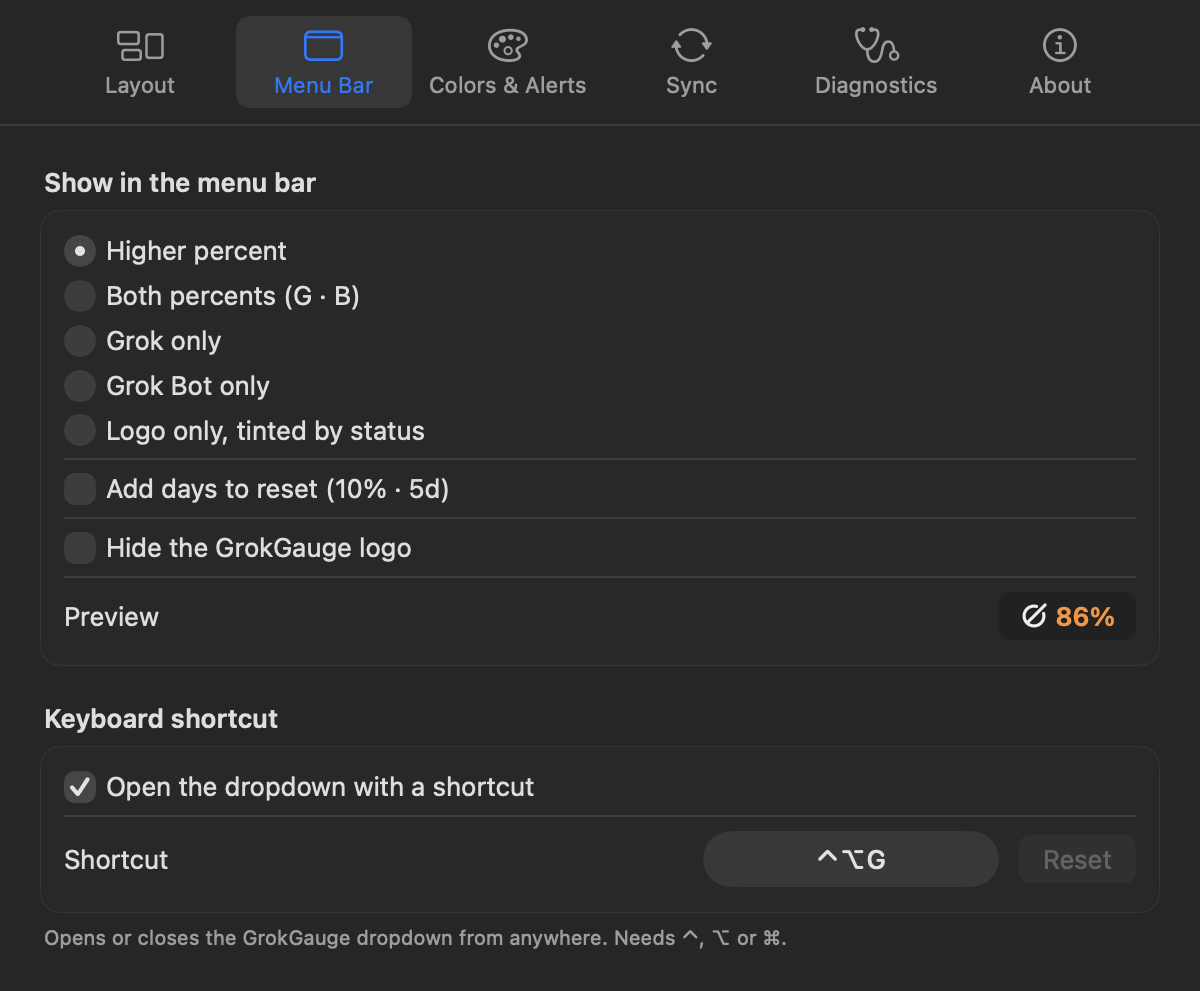
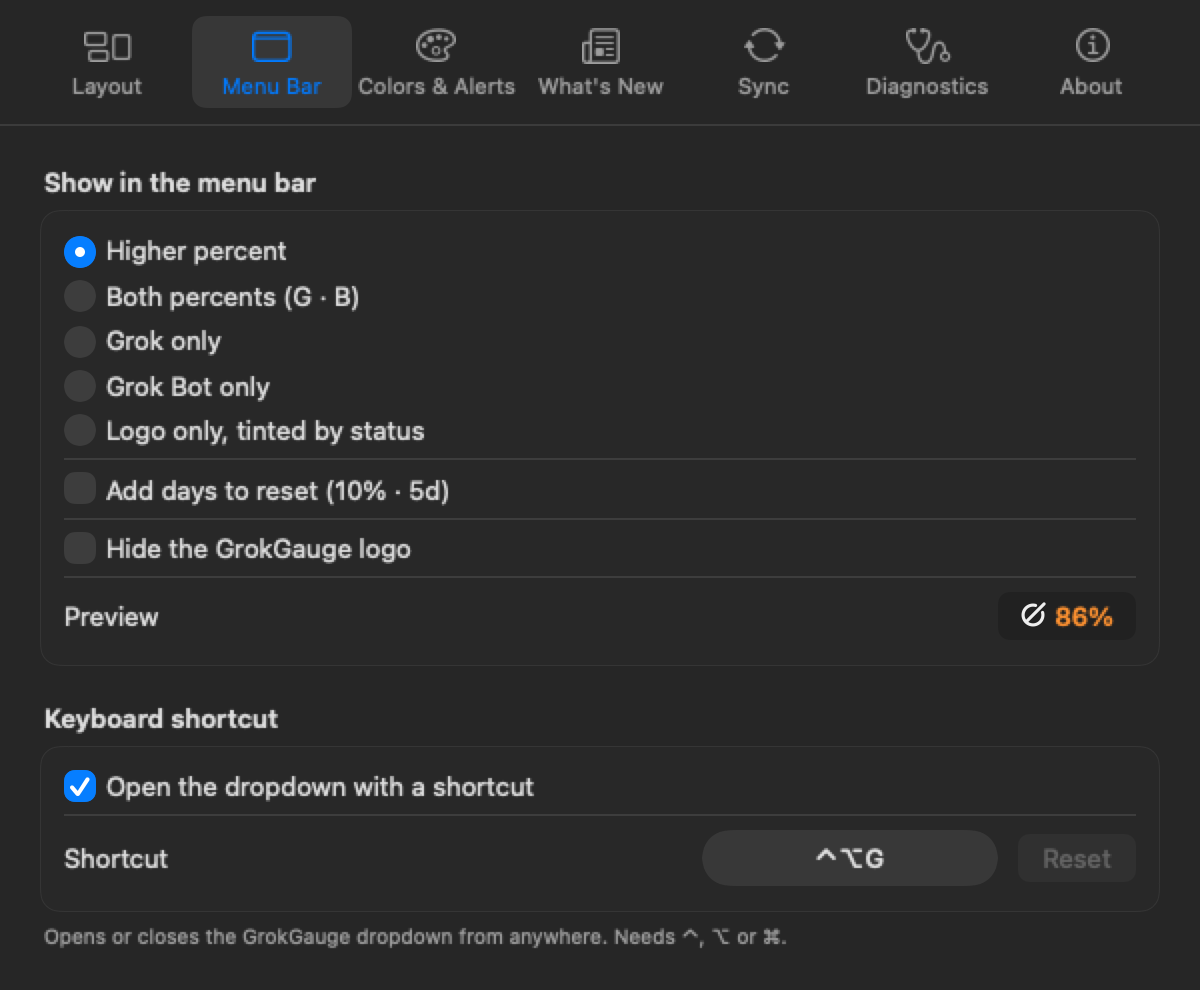
README and site: welcome tour and one-folder Sync tab (coming in the next update); previews render active colors at 2x

diff --git a/site/index.html b/site/index.html
@@ -28,6 +28,7 @@
   <div class="wrap nav-inner">
     <a class="brand" href="#top"><img src="assets/icon-256.png" alt="" width="32" height="32"><span>GrokGauge</span></a>
     <nav class="nav-links" aria-label="Sections">
+      <a href="#welcome">Welcome tour</a>
       <a href="#features">Features</a>
       <a href="#rings">Rings</a>
       <a href="#how">How it works</a>
@@ -84,6 +85,56 @@
   </div>
 </section>
 
+<!-- WELCOME TOUR -->
+<section id="welcome" class="section alt">
+  <div class="wrap">
+    <header class="sec-head">
+      <p class="kicker">Welcome tour</p>
+      <h2>Get started in seconds.</h2>
+      <p><span class="soon">Coming in the next update</span></p>
+      <p>The first time GrokGauge opens, a friendly 8-step tour shows you around. It checks your Grok sign-in, explains the rings with <em>your</em> color levels, the menu bar, settings and sync, and pace. Skip it anytime, or replay it later from the gear menu's <strong>Show Welcome Tour…</strong></p>
+    </header>
+
+    <div class="grid tour-grid">
+      <figure class="card fig">
+        <div class="shot shot-tour"><picture>
+          <source srcset="assets/tour-welcome-light.png" media="(prefers-color-scheme: light)">
+          <img src="assets/tour-welcome-dark.png" width="500" height="440" loading="lazy" alt="Welcome to GrokGauge: what it is, plus the note that it is unofficial and not affiliated with xAI">
+        </picture></div>
+        <figcaption><strong>1 · Welcome</strong> · what it is, unofficial</figcaption>
+      </figure>
+      <figure class="card fig">
+        <div class="shot shot-tour"><picture>
+          <source srcset="assets/tour-connect-light.png" media="(prefers-color-scheme: light)">
+          <img src="assets/tour-connect-dark.png" width="500" height="440" loading="lazy" alt="Connect to Grok: green checks for the Grok CLI sign-in and Grok Bot">
+        </picture></div>
+        <figcaption><strong>2 · Connect</strong> · checks your Grok sign-in</figcaption>
+      </figure>
+      <figure class="card fig">
+        <div class="shot shot-tour"><picture>
+          <source srcset="assets/tour-rings-light.png" media="(prefers-color-scheme: light)">
+          <img src="assets/tour-rings-dark.png" width="500" height="440" loading="lazy" alt="The rings: what Grok, Grok Bot and Cursor mean, with your own color levels and reset time">
+        </picture></div>
+        <figcaption><strong>3 · The rings</strong> · your colors and levels</figcaption>
+      </figure>
+      <figure class="card fig">
+        <div class="shot shot-tour"><picture>
+          <source srcset="assets/tour-tip-light.png" media="(prefers-color-scheme: light)">
+          <img src="assets/tour-tip-dark.png" width="500" height="440" loading="lazy" alt="Enjoying GrokGauge? An optional Tip on PayPal button and a Maybe later button">
+        </picture></div>
+        <figcaption><strong>8 · Thanks</strong> · an optional tip, never a nag</figcaption>
+      </figure>
+    </div>
+
+    <div class="grid feat-mini tour-mini">
+      <div class="mini"><span class="mi">↩</span><div><h4>Quick to click through</h4><p>Back, Next and Skip on every card, with step dots. <kbd>Return</kbd> goes on, <kbd>Esc</kbd> skips.</p></div></div>
+      <div class="mini"><span class="mi">◐</span><div><h4>Light, dark &amp; VoiceOver</h4><p>Follows your Mac's appearance, and every card reads well with VoiceOver.</p></div></div>
+      <div class="mini"><span class="mi">①</span><div><h4>Once per Mac, no nagging</h4><p>It shows once on each Mac. The last card offers an optional tip, and “Maybe later” means it never asks again.</p></div></div>
+    </div>
+    <p class="fine center">Shown with sample data. Steps 4–7 cover the shared pool, the menu bar, settings &amp; sync, and history &amp; pace.</p>
+  </div>
+</section>
+
 <!-- FEATURES -->
 <section id="features" class="section">
   <div class="wrap">
@@ -137,12 +188,32 @@
     </div>
 
     <div class="grid feat-mini">
-      <div class="mini"><span class="mi">⇄</span><div><h4>History synced across Macs</h4><p>Point GrokGauge at a folder your Macs already sync and every Mac's graph includes the others' readings.</p></div></div>
+      <div class="mini"><span class="mi">⇄</span><div><h4>Synced across Macs</h4><p>Point GrokGauge at a folder your Macs already sync. Your settings and every Mac's readings follow you.</p></div></div>
       <div class="mini"><span class="mi">🔔</span><div><h4>Heads-up alerts</h4><p>A notification when a ring reaches your warning or critical level, once per week each.</p></div></div>
       <div class="mini"><span class="mi">⌨</span><div><h4>Global shortcut</h4><p>Press <kbd>⌃⌥G</kbd> from anywhere to open the dropdown.</p></div></div>
       <div class="mini"><span class="mi">⏻</span><div><h4>Launch at login</h4><p>Set it once and it's there every time your Mac starts.</p></div></div>
       <div class="mini"><span class="mi">›_</span><div><h4>Guided Grok CLI setup</h4><p>No Grok CLI yet? GrokGauge walks you through installing it and running <code>grok login</code>.</p></div></div>
       <div class="mini"><span class="mi">⚙</span><div><h4>Make it yours</h4><p>Reorder or hide sections, pick ring and graph styles, and set your own color levels.</p></div></div>
+    </div>
+
+    <div class="card sync-spot">
+      <div class="sync-copy">
+        <p class="kicker">Sync between Macs</p>
+        <h3>One folder. One status. Done.</h3>
+        <p><span class="soon">Coming in the next update</span></p>
+        <p>Pick one folder your Macs already sync, like Google Drive, iCloud Drive or Dropbox. Your settings and 7-day usage history sync through it, and each has its own switch. One status line tells you it's in sync and which Macs are in, with a single <strong>Sync Now</strong>.</p>
+        <ul class="checks">
+          <li>All your Macs end up in the same folder. GrokGauge finds the one your other Macs use.</li>
+          <li>Readings from every Mac are combined (highest wins), never added.</li>
+          <li>Your Grok login is never synced.</li>
+        </ul>
+      </div>
+      <div class="shot shot-sync">
+        <picture>
+          <source srcset="assets/prefs-sync-light.png" media="(prefers-color-scheme: light)">
+          <img src="assets/prefs-sync-dark.png" width="600" height="512" loading="lazy" alt="The Sync tab: one folder, a status line reading In sync, 3 Macs, synced, one Sync Now button, and switches for Settings and 7-day usage history">
+        </picture>
+      </div>
     </div>
   </div>
 </section>
@@ -285,7 +356,7 @@
     </details>
     <details>
       <summary>I use several Macs. Does it keep up?</summary>
-      <p>Yes. Choose a folder your Macs already sync (Google Drive, Dropbox, iCloud Drive and so on) and GrokGauge syncs your settings and usage history through it. Run <code>grok login</code> on each Mac, because logins are never synced.</p>
+      <p>Yes. Choose a folder your Macs already sync (Google Drive, Dropbox, iCloud Drive and so on) and GrokGauge syncs your settings and usage history through it. Run <code>grok login</code> on each Mac, because logins are never synced. In the next update the Sync tab gets simpler: one folder, one status line and a switch each for settings and history.</p>
     </details>
   </div>
 </section>
@@ -294,7 +365,7 @@
 <section id="support" class="section alt">
   <div class="wrap">
     <div class="support card">
-      <img class="logo" src="assets/retrocombs-logo-160.png" width="96" height="96" alt="retroCombs logo">
+      <img class="logo" src="assets/retrocombs-logo-160.png" srcset="assets/retrocombs-logo-160.png 1x, assets/retrocombs-logo-512.png 3x" width="96" height="96" alt="retroCombs logo">
       <div class="support-copy">
         <h2>Free, and built in the open.</h2>
         <p>GrokGauge was made by Steven “retroCombs” Combs together with Grok Bot. If it saves you a surprise at the weekly limit, you can say thanks with a tip.</p>

diff --git a/Sources/GrokGauge/PreviewRenderer.swift b/Sources/GrokGauge/PreviewRenderer.swift
@@ -130,8 +130,7 @@ enum PreviewRenderer {
             prefsSettings = SettingsStore.preview()
         }
         let updates = demo
-            ? UpdateMonitor.preview(available: ReleaseInfo(tag: "v0.9.2", url: URL(string: "https://github.com/stevencombs/GrokGauge/releases/tag/v0.9.2")!),
-                                    lastChecked: Date().addingTimeInterval(-3 * 3600))
+            ? UpdateMonitor.preview(available: nil, lastChecked: Date().addingTimeInterval(-3 * 3600))
             : UpdateMonitor.preview(available: nil, lastChecked: Date())
         let expiry = demo ? Date().addingTimeInterval(5.5 * 3600) : store.grokTokenExpiry()
         // History sync as it looks with three Macs (one Insync conflict copy merged, one partial file skipped).
@@ -259,16 +258,19 @@ enum PreviewRenderer {
         let root = view
             .background(background ? (scheme == .dark ? Color(white: 0.15) : Color(white: 0.965)) : .clear)
             .environment(\.colorScheme, scheme)
+            // Draw controls as in the frontmost window (accent-colored default buttons and switches), not greyed out.
+            .environment(\.controlActiveState, .key)
         let host = NSHostingView(rootView: root)
         host.appearance = NSAppearance(named: scheme == .dark ? .darkAqua : .aqua)
         host.setFrameSize(host.fittingSize)
 
         // A real (but off-screen) window so AppKit-backed controls draw normally.
-        let window = NSWindow(contentRect: NSRect(origin: NSPoint(x: -10_000, y: -10_000), size: host.fittingSize),
-                              styleMask: [.borderless], backing: .buffered, defer: false)
+        let window = PreviewWindow(contentRect: NSRect(origin: NSPoint(x: -10_000, y: -10_000), size: host.fittingSize),
+                                   styleMask: [.borderless], backing: .buffered, defer: false)
         window.appearance = host.appearance
         window.contentView = host
         window.orderFrontRegardless()
+        window.makeKey()
         RunLoop.main.run(until: Date().addingTimeInterval(0.6))
         host.setFrameSize(host.fittingSize)
         window.setContentSize(host.fittingSize)
@@ -276,10 +278,27 @@ enum PreviewRenderer {
         host.layoutSubtreeIfNeeded()
         host.display()
 
-        guard let rep = host.bitmapImageRepForCachingDisplay(in: host.bounds) else { return false }
+        // Always 2x pixels, so shots look the same from a Retina or a non-Retina Mac.
+        let scale: CGFloat = 2
+        guard let rep = NSBitmapImageRep(bitmapDataPlanes: nil,
+                                         pixelsWide: Int((host.bounds.width * scale).rounded()),
+                                         pixelsHigh: Int((host.bounds.height * scale).rounded()),
+                                         bitsPerSample: 8, samplesPerPixel: 4, hasAlpha: true, isPlanar: false,
+                                         colorSpaceName: .deviceRGB, bytesPerRow: 0, bitsPerPixel: 0)
+        else { return false }
+        rep.size = host.bounds.size
         host.cacheDisplay(in: host.bounds, to: rep)
         window.orderOut(nil)
         return write(rep, to: url)
+    }
+
+    /// Off-screen window that reports itself as key and main, so AppKit-backed controls (buttons, switches)
+    /// render in their active colors instead of the greyed inactive-window look.
+    private final class PreviewWindow: NSWindow {
+        override var canBecomeKey: Bool { true }
+        override var canBecomeMain: Bool { true }
+        override var isKeyWindow: Bool { true }
+        override var isMainWindow: Bool { true }
     }
 
     struct MenuBarItem {
@@ -341,4 +360,10 @@ enum PreviewRenderer {
         do { try data.write(to: url) } catch { return false }
         return true
     }
+}
+
+/// Used only by --render-preview / --render-tour (never by the menu bar app): an application that reports itself
+/// active without activating, so AppKit switches draw "on" in the accent color instead of the inactive grey.
+final class PreviewApplication: NSApplication {
+    override var isActive: Bool { true }
 }

diff --git a/site/style.css b/site/style.css
@@ -255,3 +255,21 @@ html, body { overflow-x: clip; }
 .mb-fig figcaption { font-size: 12px; color: var(--muted); margin-top: 8px; }
 .hero-shot picture { display: block; }
 @media (prefers-color-scheme: light) { .hero-shot img { border-color: rgba(0,0,0,.10); box-shadow: 0 30px 80px rgba(15,20,30,.18), 0 0 0 .5px rgba(0,0,0,.1); } }
+
+/* welcome tour + one-folder sync (next update) */
+.soon { display: inline-block; font-size: 12px; font-weight: 700; letter-spacing: .06em; text-transform: uppercase; color: var(--accent); border: 1px solid color-mix(in srgb, var(--accent) 45%, transparent); background: color-mix(in srgb, var(--accent) 10%, transparent); padding: 3px 10px; border-radius: 999px; }
+.tour-grid { grid-template-columns: repeat(4, minmax(0, 1fr)); align-items: start; }
+.shot-tour { background: transparent; border: 1px solid var(--line); }
+.shot-tour img { max-width: 100%; }
+.tour-mini { margin-top: 32px; }
+.center { text-align: center; }
+.sync-spot { display: grid; grid-template-columns: 1fr 1.1fr; gap: 32px; align-items: center; margin-top: 40px; padding: 28px; }
+.sync-copy h3 { font-size: 26px; margin-bottom: 4px; }
+.sync-copy .checks { grid-template-columns: 1fr; margin-top: 12px; }
+.shot-sync { background: transparent; border: 1px solid var(--line); }
+.shot-sync img { max-width: 100%; }
+@media (max-width: 980px) {
+  .tour-grid { grid-template-columns: repeat(2, minmax(0, 1fr)); }
+  .sync-spot { grid-template-columns: 1fr; }
+}
+@media (max-width: 640px) { .tour-grid { grid-template-columns: 1fr; } }

diff --git a/Sources/GrokGauge/main.swift b/Sources/GrokGauge/main.swift
@@ -40,7 +40,7 @@ if let i = arguments.firstIndex(of: "--render-preview"), i + 1 < arguments.count
     MainActor.assumeIsolated {
         // AppKit drawing needs the real main thread, so run an NSApplication loop
         // (dispatchMain() would service the main queue from a worker thread).
-        let app = NSApplication.shared
+        let app = PreviewApplication.shared   // reports itself active, so switches draw in accent colors
         app.setActivationPolicy(.prohibited)
         Task { @MainActor in
             let code = await PreviewRenderer.render(to: dir, demo: demo)
@@ -55,7 +55,7 @@ if let i = arguments.firstIndex(of: "--render-tour"), i + 1 < arguments.count {
     let dir = URL(fileURLWithPath: (arguments[i + 1] as NSString).expandingTildeInPath)
     let demo = arguments.contains("--demo")
     MainActor.assumeIsolated {
-        let app = NSApplication.shared
+        let app = PreviewApplication.shared   // reports itself active, so switches draw in accent colors
         app.setActivationPolicy(.prohibited)
         Task { @MainActor in
             let code = await PreviewRenderer.renderTour(to: dir, demo: demo)

diff --git a/README.md b/README.md
@@ -24,6 +24,10 @@
 > "Grok" and "SuperGrok" are trademarks of xAI. GrokGauge reads undocumented data sources that
 > can change without notice.
 
+> **New in the next update** (after 0.9.4; Homebrew still installs 0.9.4 for now):
+> a friendly [welcome tour](#welcome-tour) the first time GrokGauge opens, and a simpler
+> [one-folder Sync tab](#using-it-on-several-macs).
+
 ## What it does
 
 GrokGauge tracks two weekly limits side by side:
@@ -75,6 +79,8 @@ Features:
 - **Settings window** (gear button or **⌘,**): reorder and hide dropdown sections, menu bar style,
   levels and colors (with a colorblind-friendly preset), notification levels, refresh interval,
   launch at login, settings sync between Macs, diagnostics, and an optional update check.
+- **Welcome tour** *(new in the next update)*. An 8-step tour the first time GrokGauge opens on a Mac,
+  replayable from the gear menu's **Show Welcome Tour…**. See [Welcome tour](#welcome-tour).
 - **Accessible.** VoiceOver labels and values on the rings, bars, charts and buttons; respects
   Reduce Motion and Increase Contrast.
 
@@ -188,11 +194,42 @@ Each release lists the zip's SHA-256 so you can check your download with `shasum
 
 ### First run
 
+*New in the next update:* GrokGauge opens a short **welcome tour** the first time it runs on each Mac.
+It walks you through the steps below. See [Welcome tour](#welcome-tour).
+
 1. Click the gauge in the menu bar (or press **⌃⌥G**) to open the dropdown.
 2. When macOS asks, **allow notifications** so you get the warning and critical alerts.
 3. Click the **gear** (or press **⌘,**) and turn on **Launch at login** under *Colors & Alerts*
    if you want GrokGauge to start with your Mac.
 4. Use **Refresh now** any time; otherwise it updates itself every 15 minutes (adjustable).
+
+## Welcome tour
+
+*New in the next update (not in 0.9.4).* The first time GrokGauge opens on a Mac, a small window walks
+you through it in 8 short cards:
+
+1. **Welcome.** What GrokGauge is, and that it's unofficial and not affiliated with xAI.
+2. **Connect.** Checks for the Grok CLI sign-in on this Mac and shows a green check, or the install and
+   `grok login` steps with copy buttons and **Check Again**.
+3. **The rings.** What each ring means, with *your* color levels (for example 0–80%, 81–90%, above 90%)
+   and when your pool resets.
+4. **The shared pool.** Why the Grok Bot ring can show Grok Bot's share of the Grok pool.
+5. **In your menu bar.** What the menu bar number shows (a live example in your current style) and where
+   to change it.
+6. **Settings & sync.** Colors & Alerts, Layout (including the optional Cursor ring) and the one-folder Sync.
+7. **History & pace.** The 7-day graphs and the "on pace to run out" warning.
+8. **Enjoying GrokGauge?** An optional tip card: **🙏 Tip on PayPal** opens
+   [paypal.me/stevencombs](https://paypal.me/stevencombs), **Maybe later** just closes the tour. No nagging:
+   it never asks again.
+
+Every card has **Back**, **Next** and **Skip**, with step dots. Press **Return** for the next card or
+**Esc** to skip. It follows light and dark mode and works with VoiceOver. It shows once per Mac (a local
+flag that isn't synced). Replay it anytime from the gear menu: **Show Welcome Tour…**.
+
+| | |
+|---|---|
+| <img src="docs/onboarding/tour-01-welcome-light-demo.png" width="400" alt="Welcome tour, step 1: Welcome to GrokGauge"> | <img src="docs/onboarding/tour-03-rings-dark-demo.png" width="400" alt="Welcome tour, step 3: the rings and your color levels"> |
+| <img src="docs/onboarding/tour-05-menu-bar-light-demo.png" width="400" alt="Welcome tour, step 5: the menu bar number"> | <img src="docs/onboarding/tour-08-tip-dark-demo.png" width="400" alt="Welcome tour, step 8: Enjoying GrokGauge? Tip on PayPal or Maybe later"> |
 
 ## Settings
 
@@ -234,8 +271,10 @@ Everything applies immediately.
   (every 6, 12 or 24 hours; the Grok CLI every 2 hours), whether to get one summary notification per check
   (off by default), **Check Now** and **Mark All Read**. The first check marks everything already out as
   read, so you only see a dot for what's new after that. Read marks stay on this Mac; the choices sync.
-- **Sync.** See [Using it on several Macs](#using-it-on-several-macs). **Export…** and **Import…**
-  save and load the same JSON file.
+- **Sync.** One folder, one status line, one **Sync Now**, and a switch each for **Settings** and
+  **7-day usage history** (the one-folder layout is new in the next update). See
+  [Using it on several Macs](#using-it-on-several-macs). **Export…** and **Import…** save and load the
+  same JSON file.
 - **Diagnostics.** For Grok and Grok Bot: status, last success, last error (including the server's own
   error message for HTTP errors other than 401/403, with anything token-, email- or id-like removed), and (for Grok) when the
   login expires, plus the app and macOS versions. **Copy Report** puts a plain-text summary on the
@@ -248,32 +287,42 @@ Everything applies immediately.
 
 ## Using it on several Macs
 
-Install GrokGauge and run `grok login` on each Mac (logins are never synced). To keep your
-**settings** the same everywhere, open *Settings › Sync* on each Mac and choose a folder your Macs
-already sync, such as a Google Drive, Insync, Dropbox or iCloud Drive folder.
+Install GrokGauge and run `grok login` on each Mac (logins are never synced). Then open
+*Settings › Sync* on each Mac and choose a folder your Macs already sync, such as a Google Drive, Insync,
+Dropbox or iCloud Drive folder.
 
-- GrokGauge keeps one small file there, `GrokGauge/settings.json`, and watches it. It notices both
-  in-place edits and sync clients that replace the file, and also checks every 30 seconds as a fallback.
-- The newest change wins (by the time it was made). Changes made while a Mac is offline are resolved
-  the same way when it comes back.
-- **Only preferences sync**: layout, menu bar, levels, colors, notification levels, refresh interval,
-  shortcut, and the update-check switch. Never your Grok login or tokens (history has its own files, below).
-- The folder choice itself stays on each Mac, so each one can point at its own path.
+*New in the next update:* the Sync tab is one section, **Sync between Macs**:
 
-**Usage history** (the 7-day graphs) syncs too, through the same folder. If you haven't picked one,
-GrokGauge looks for a `MacSyncing` folder in your cloud-drive folders; you can also choose a folder or
-iCloud Drive under *Settings › Sync › Usage history*, or switch **Sync history across Macs** off.
+<p align="center">
+  <img src="docs/onboarding/prefs-sync-light-demo.png" width="460" alt="The Sync tab: one folder, one status line reading In sync, 3 Macs, synced, one Sync Now button, and switches for Settings and 7-day usage history">
+</p>
 
-- Each Mac writes only its own file, `GrokGauge/history/<machine-id>.json`, and merges everyone's. Usage is
-  account-wide, so matching readings are combined by taking the highest, never added.
-- Conflict copies from Insync or Drive are merged; damaged files are skipped and shown in
-  *Settings › Diagnostics*, along with the folder, the number of Macs and the last sync.
-- If a Mac's settings sync through a different folder than the `MacSyncing` folder found automatically (for
-  example `MacSyncing/xAI`), history is written to and read from **both**, so that Mac still shows up on the
-  others. A folder you choose for history is used on its own.
-- *Settings › Diagnostics › History sync* shows every folder in use, when this Mac's file was last written,
-  and any write error (no permission, folder missing, disk full), which stays listed until a write succeeds.
-- With no folder, history stays on the Mac as before.
+- **One folder** (Change… / Stop Syncing) for everything. GrokGauge keeps `settings.json` and
+  `history/<this Mac>.json` in a `GrokGauge` subfolder there.
+- **One status line** for both, for example "In sync · 3 Macs (Air-M4, MacBook Pro, Studio) · synced 11:38 PM",
+  and one **Sync Now**.
+- **Two switches**, both on by default: **Settings** and **7-day usage history**.
+- If you haven't picked a folder, GrokGauge looks for a `MacSyncing` folder in your cloud-drive folders and
+  uses it. **Stop Syncing** is remembered, so the folder won't be picked up again by itself.
+- **All your Macs end up in the same folder.** GrokGauge checks nearby folders for GrokGauge data (it only
+  reads them). If no other Mac uses this Mac's folder but your other Macs use another one, it moves there by
+  itself, for example from `MacSyncing/xAI` to `MacSyncing`. If other Macs share this folder too, it offers
+  **Switch** instead of moving. Older folders that still hold history are read (never written), so Macs
+  still on 0.9.4 keep showing up. *Settings › Diagnostics › History sync* lists them.
+
+How each part syncs:
+
+- **Settings:** layout, menu bar, levels, colors, notification levels, refresh interval, shortcut, and the
+  update-check switch. Never your Grok login or tokens. GrokGauge watches the file, notices in-place
+  edits and sync clients that replace it, and checks every 30 seconds as a fallback. The newest change
+  wins (by the time it was made), including changes made while a Mac was offline.
+- **History:** each Mac writes only its own file, `GrokGauge/history/<machine-id>.json`, and merges
+  everyone's. Usage is account-wide, so matching readings are combined by taking the highest, never added.
+  Conflict copies from Insync or Drive are merged; damaged files are skipped and shown in
+  *Settings › Diagnostics*, along with the folder, the number of Macs, the last sync and any write error.
+- The folder choice itself stays on each Mac. With no folder, settings and history stay on the Mac.
+
+In 0.9.4 the Sync tab still has separate folder pickers for settings and for usage history.
 
 ## Privacy
 
@@ -312,7 +361,9 @@ iCloud Drive under *Settings › Sync › Usage history*, or switch **Sync histo
 ### Settings, history, and updates
 
 - **Settings sync** writes only `GrokGauge/settings.json` in the folder you choose, containing
-  preferences only (no tokens, emails, ids, usage, or history). Nothing is synced until you pick a folder.
+  preferences only (no tokens, emails, ids, usage, or history). In 0.9.4 nothing syncs until you pick a
+  folder; from the next update, a `MacSyncing` folder found in your cloud-drive folders is used if you
+  haven't picked one (turn it off with **Stop Syncing**).
 - **History** for the graphs is kept in `~/Library/Application Support/GrokGauge/history.json`:
   timestamps and percents only, pruned after 8 days. With history sync on and a sync folder available, a
   copy goes to `GrokGauge/history/<machine-id>.json` in that folder, containing only those percents and
@@ -434,6 +485,7 @@ Want the raw numbers? Run the app binary with a debug flag. None of them print y
 /Applications/GrokGauge.app/Contents/MacOS/GrokGauge --refresh-now   # renew the login now; prints expiry times
 /Applications/GrokGauge.app/Contents/MacOS/GrokGauge --print-status  # check the xAI and Cursor status pages once
 /Applications/GrokGauge.app/Contents/MacOS/GrokGauge --render-preview ~/Desktop/gg --demo   # dropdown, menu bar and Settings PNGs
+/Applications/GrokGauge.app/Contents/MacOS/GrokGauge --render-tour ~/Desktop/gg --demo      # welcome tour cards + Sync tab (next update)
 ```
 
 ## Build from source
@@ -480,7 +532,7 @@ What's next: [ROADMAP.md](ROADMAP.md).
 ## Credits and contact
 
 <p>
-  <img src="Resources/retrocombs-logo.png" width="112" align="left" alt="retroCombs logo: a retro joystick on a circuit board" style="margin-right: 16px">
+  <img src="Resources/retrocombs-logo.png" width="112" align="left" alt="retroCombs logo: a retro joystick on rainbow stripes" style="margin-right: 16px">
 </p>
 
 Created by **Steven Combs** (**retroCombs**) and built together with **Grok Bot**, Steven's AI assistant,
